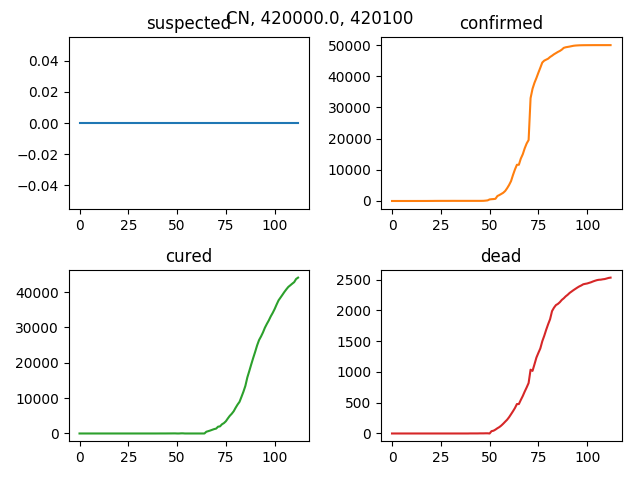
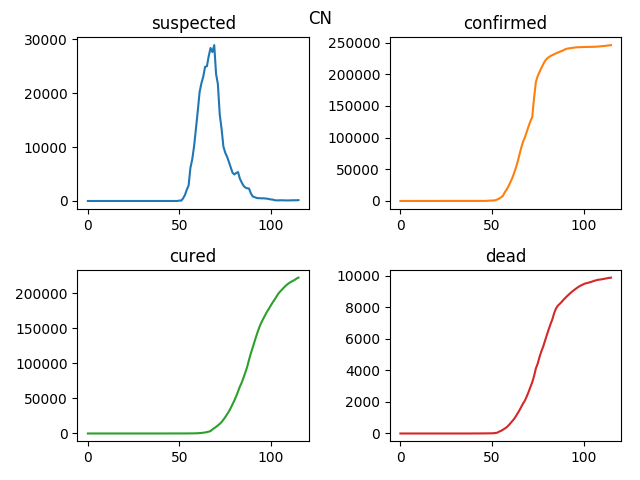
fix the plots

diff --git a/analysis/check.py b/analysis/check.py
@@ -32,45 +32,6 @@ def getsir(params):
     plt.show()
 
 
-
-df_cn2, df_hubei2, df_wuhan, df_ca, df_it, df_sk, df_sg, df_uk = g.main()
-
-print(df_wuhan.head(1))
-for df in g.main():
-    df.reset_index(inplace=True)
-    x = range(0, df.shape[0])
-    sus = df.loc[:, 'suspected']
-    conf = df.loc[:, 'confirmed']
-    recov = df.loc[:, 'cured']
-    dead = df.loc[:, 'dead']
-    fig, axs = plt.subplots(2, 2)
-    print('-----')
-    print(df.shape)
-    try:
-        title = "%s, %s, %s" % (df.loc[0, 'countryCode'], df.loc[0, 'provinceCode'], df.loc[0, 'cityCode'])
-        fig.suptitle(title)
-    except KeyError:
-        fig.suptitle(df.loc[0, 'countryCode'])
-
-    axs[0, 0].plot(x, sus)
-    axs[0, 0].set_title('suspected')
-    axs[0, 1].plot(x, conf, 'tab:orange')
-    axs[0, 1].set_title("confirmed")
-    axs[1, 0].plot(x, recov, 'tab:green')
-    axs[1, 0].set_title("cured")
-    axs[1, 1].plot(x, dead, 'tab:red')
-    axs[1, 1].set_title("dead")
-    #for ax in axs.flat:
-    #    ax.set(xlabel='x-label', ylabel='y-label')
-    #for ax in axs.flat:
-    #    ax.label_outer()
-    fig.show()
-    print('this done.------')
-    pngtitle = '{}.png'.format(df.loc[0, 'countryCode'])
-    fig.savefig(pngtitle)
-print('hello')
-
-
 # def sir(mydf, alpha=.5, beta=2, gamma=.001, mu=0.0001):
 #
 #     print('\n---------Doing a SIR---------')

diff --git a/analysis/plotdf.py b/analysis/plotdf.py
@@ -1,4 +1,8 @@
 
+
+import matplotlib.pyplot as plt
+import getfiles as g
+
 df_cn2, df_hubei2, df_wuhan, df_ca, df_it, df_sk, df_sg, df_uk = g.main()
 
 print(df_wuhan.head(1))
@@ -11,13 +15,17 @@ for df in g.main():
     dead = df.loc[:, 'dead']
     fig, axs = plt.subplots(2, 2)
     print('-----')
-    print(df.shape)
     try:
-        title = "%s, %s, %s" % (df.loc[0, 'countryCode'], df.loc[0, 'provinceCode'], df.loc[0, 'cityCode'])
-        fig.suptitle(title)
+        if not str(df.loc[0, 'provinceCode']) == 'nan':
+            title = "%s %d %d" % (df.loc[0, 'countryCode'], int(df.loc[0, 'provinceCode']), int(df.loc[0, 'cityCode']))
+            fig.suptitle(title)
+        else:
+            title = "%s" % (df.loc[0, 'countryCode'])
+            fig.suptitle(df.loc[0, 'countryCode'])
     except KeyError:
+        title = "%s" % (df.loc[0, 'countryCode'])
         fig.suptitle(df.loc[0, 'countryCode'])
-
+    print(title)
     axs[0, 0].plot(x, sus)
     axs[0, 0].set_title('suspected')
     axs[0, 1].plot(x, conf, 'tab:orange')
@@ -31,7 +39,6 @@ for df in g.main():
     #for ax in axs.flat:
     #    ax.label_outer()
     fig.show()
-    print('this done.------')
-    pngtitle = '{}.png'.format(df.loc[0, 'countryCode'])
-    fig.savefig(pngtitle)
+    print('------')
+    fig.savefig(title)
 print('hello')
